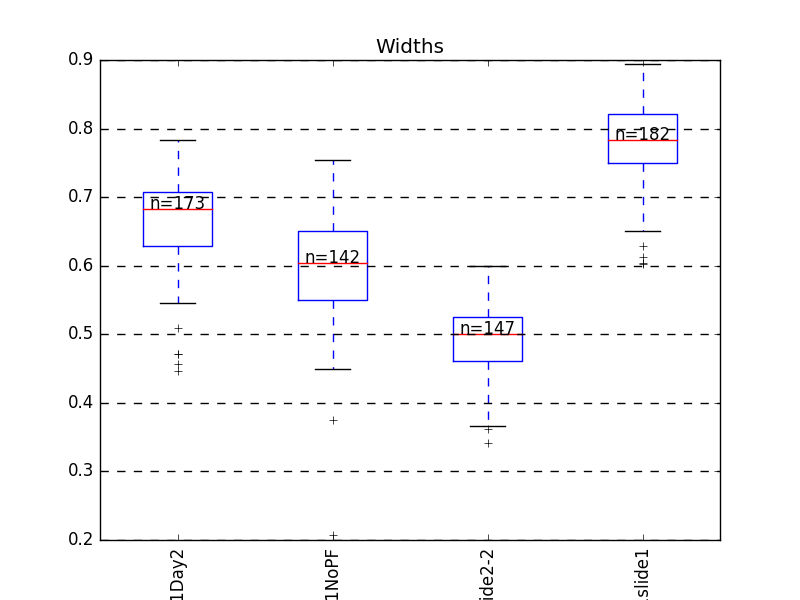
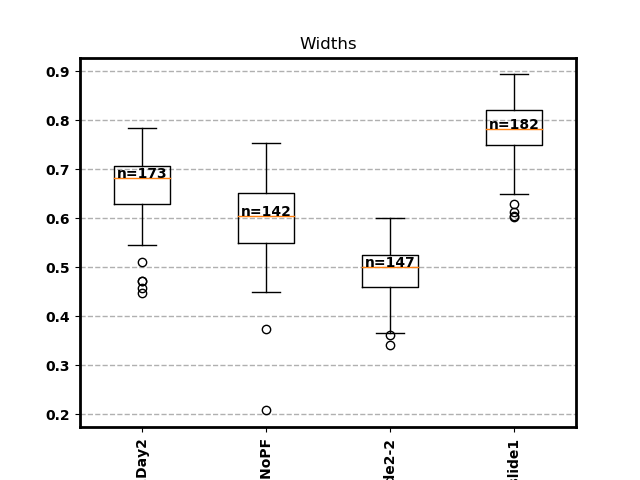
Figure work

diff --git a/Analyser.py b/Analyser.py
@@ -6,7 +6,9 @@ import numpy as np
 import copy
 from scipy import stats
 import matplotlib
-
+from matplotlib import rc,rcParams
+rc('axes', linewidth=2)
+rc('font', weight='bold')
 def getCondition(fName):
     array = fName.split(".")[0].split("_")[0:2]
     return array[0]+array[1]
@@ -128,28 +130,74 @@ for prop in Props:
     plt.savefig("./Analysis/Graphs/All_"+prop)
     #plt.show()
 
-prop = "Volumes"
-meanVolumes = []
-growthRates = [40,90,28]
-for n in range(len(conditions)):
-    meanVolume = np.mean(np.asarray(dataDic[prop][n]))*(0.051)**3
-    meanVolumes.append(meanVolume)
+
 plt.close("all")
 plt.clf()
 
 
+
+#******** THESIS FIGURES *************
+prop = "Volumes"
+meanVolumes = []
+growthRates = [40,90,28]
+scaleFactors = 0.051
+volumes = []
+yErrors = []
+for n in range(len(conditions)):
+    volume = np.asarray(dataDic[prop][n])*((scaleFactors)**3)
+    volumes.append(volume)
+    meanVolume = np.mean(volume)
+    meanVolumes.append(meanVolume)
+    yErr = np.std(volume)
+    yErr = yErr/meanVolume
+    yErrors.append((yErr/np.sqrt(len(volume))))
+
+
+#************ GROWTH LAW **************
+#Bottom left size vs growth rate
+plt.close("all")
+fig, ax = plt.subplots(nrows=2,ncols=2,figsize=(13,9))
 x = np.log(2)/(np.asarray(growthRates)/60.0)
 y = np.log(np.asarray(meanVolumes))
 slope, intercept, r_value, p_value, std_err = stats.linregress(x, y)
-plt.plot(x,y,'o',markersize=10)
-plt.plot(x,x*slope+intercept,label="y = {0:.2f}x {1:.2f} \n $S = S_0e^{{ \gamma \lambda }} = {2:.2f}e^{{ {3:.2f}\lambda }}$".format(slope,intercept,np.exp(intercept),slope),linewidth=3)
-plt.plot([0,x[1]],[intercept,x[1]*slope + intercept],"--",linewidth=3,color="green")
+yPredict = x*slope+intercept
 
-plt.legend(loc="lower center",fontsize="xx-large")
-plt.xlabel("Growth rate $\mathbf{\lambda = \\frac{ln(2)}{\\tau}}$ ($h^{-1}$)",fontsize=20,fontweight="bold")
-plt.ylabel("$\mathbf{ln}$(Mean cell volume)",fontsize=20,fontweight="bold")
-plt.xlim(0,1.05*max(x))
-plt.ylim(1.1*intercept,max(y)*1.1)
-plt.tight_layout()
+ax[1][0].errorbar(x,y,yerr=yErrors,fmt='o',markersize=10,capsize=10,elinewidth=3,ecolor="k")
+ax[1][0].plot(x,yPredict,color="orange", label="y = {0:.2f}x {1:.2f} \n $S = S_0e^{{ \gamma \lambda }} = {2:.2f}e^{{ {3:.2f}\lambda }}$".format(slope,intercept,np.exp(intercept),slope),linewidth=3)
+ax[1][0].plot([0,x[1]],[intercept,x[1]*slope + intercept],"--",linewidth=3,color="orange")
+
+ax[1][0].legend(loc="upper left",fontsize="xx-large")
+ax[1][0].set_xlabel("Growth rate $\mathbf{\lambda = \\frac{ln(2)}{\\tau}}$ ($h^{-1}$)",fontsize=20,fontweight="bold")
+ax[1][0].set_ylabel("$\mathbf{ln}$(Mean cell volume)",fontsize=20,fontweight="bold")
+ax[1][0].set_xlim(0,1.05*max(x))
+ax[1][0].set_ylim(1.1*intercept,max(y)*1.5)
+ax[1][0].tick_params(axis="x", labelsize=15)
+ax[1][0].tick_params(axis="y", labelsize=15)
+#Bottom right residuals
+ax[1][1].axhline(0,color="gray",zorder=0)
+ax[1][1].errorbar(x,y-yPredict,yerr=yErrors,fmt='o',markersize=10,capsize=10,elinewidth=3,ecolor="k")
+ax[1][1].set_xlabel("Growth rate $\mathbf{\lambda}$ ($h^{-1}$)",fontsize=20,fontweight="bold")
+ax[1][1].set_ylabel("Residuals",fontsize=20,fontweight="bold")
+ax[1][1].tick_params(axis="x", labelsize=15)
+ax[1][1].tick_params(axis="y", labelsize=15)
+#Top left plot
+for vol in volumes:
+    ax[0][0].hist(vol,bins=18,alpha=0.33,density=True)
+ax[0][0].set_xlabel("Volume ($\\mu m^3$)",fontsize=20,fontweight="bold")
+ax[0][0].set_ylabel("Normalised frequency",fontsize=20,fontweight="bold")
+ax[0][0].tick_params(axis="x", labelsize=15)
+ax[0][0].tick_params(axis="y", labelsize=15)
+#Top right
+ax[0][1].boxplot(volumes,vert=False,whis=[1,99], positions= growthRates, meanline=True )
+#ax.annotate('n={}'.format(len(data[n])), xy=(n+1, np.median(data[n])),
+#        xytext=(n+1, np.median(data[n])), ha='center')
+ax[0][1].set_xlabel("Volume ($\\mu m^3$)",fontsize=20,fontweight="bold")
+ax[0][1].set_ylabel("Condition",fontsize=20,fontweight="bold")
+ax[0][1].tick_params(axis="x", labelsize=15)
+ax[0][1].tick_params(axis="y", labelsize=15)
+ax[0][1].grid(linestyle='--', linewidth=1,axis="x")
+
+
+fig.tight_layout()
 
 plt.show()

diff --git a/pyzota_image_toolbox/imageTools.py b/pyzota_image_toolbox/imageTools.py
@@ -175,7 +175,7 @@ def Erode(Image,numberoftimes):
     Performs binary erosion of image a required number of times.
     '''
     for i in range(numberoftimes):
-        Image = binary_erosion(Image)
+        Image = scipy.ndimage.morphology.binary_erosion(Image,border_value=0)
     return(Image)
 
 def Dilate(Image,numberoftimes):
@@ -459,6 +459,7 @@ def GetLengthAndWidth(Image,rawImage,debug=False):
 
 
         #**************** ALL steps PLOT  *****************************************#
+
         #Example showing all stages plot
         fig, ax = plt.subplots(nrows=3,ncols=3,figsize=(12,12))
         #Set titles
@@ -546,10 +547,10 @@ def GetLengthAndWidth(Image,rawImage,debug=False):
             ax[2][2].plot(np.asarray(xs)+padRow,np.asarray(ys)+padCol,color=color )
         ax[2][2].imshow(Image,cmap="gray",interpolation="None",alpha= 0.5)
         ax[2][2].imshow(edgePixels,cmap="inferno",interpolation="None",alpha= 0.5)
+        plt.show()
         fig.tight_layout()
         plt.clf()
         plt.close()
-        #plt.show()
         #exit()
 
 
